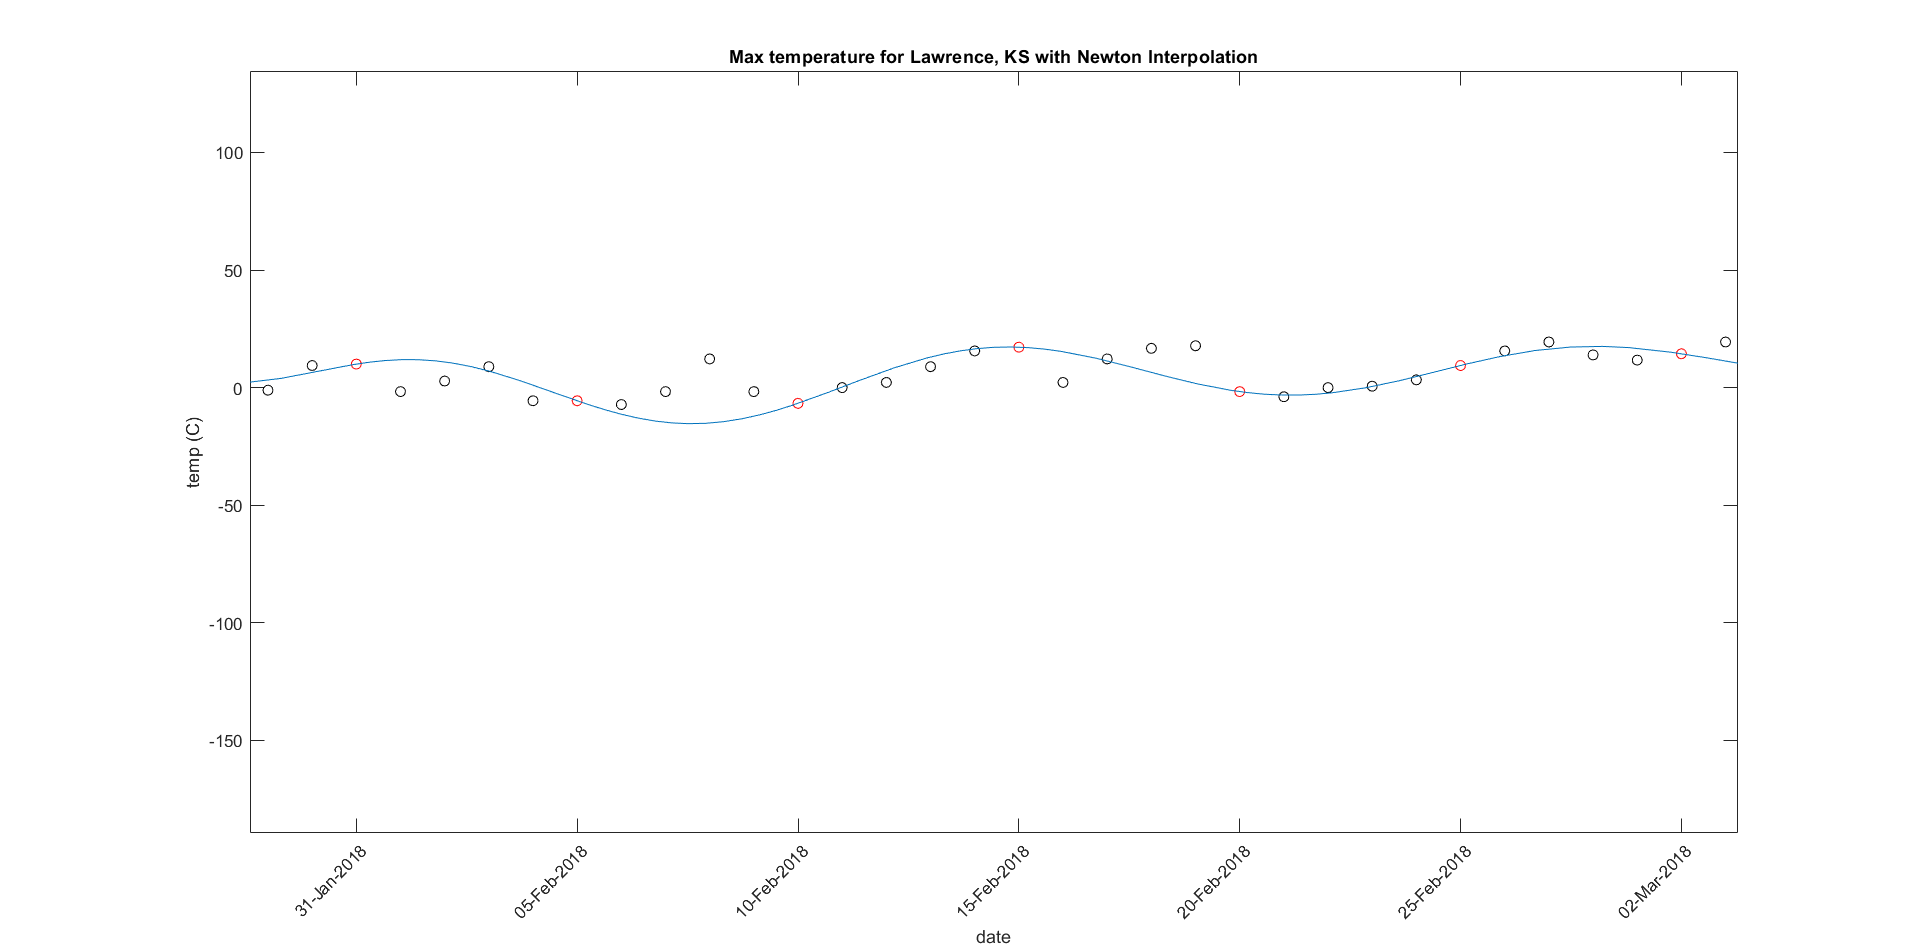
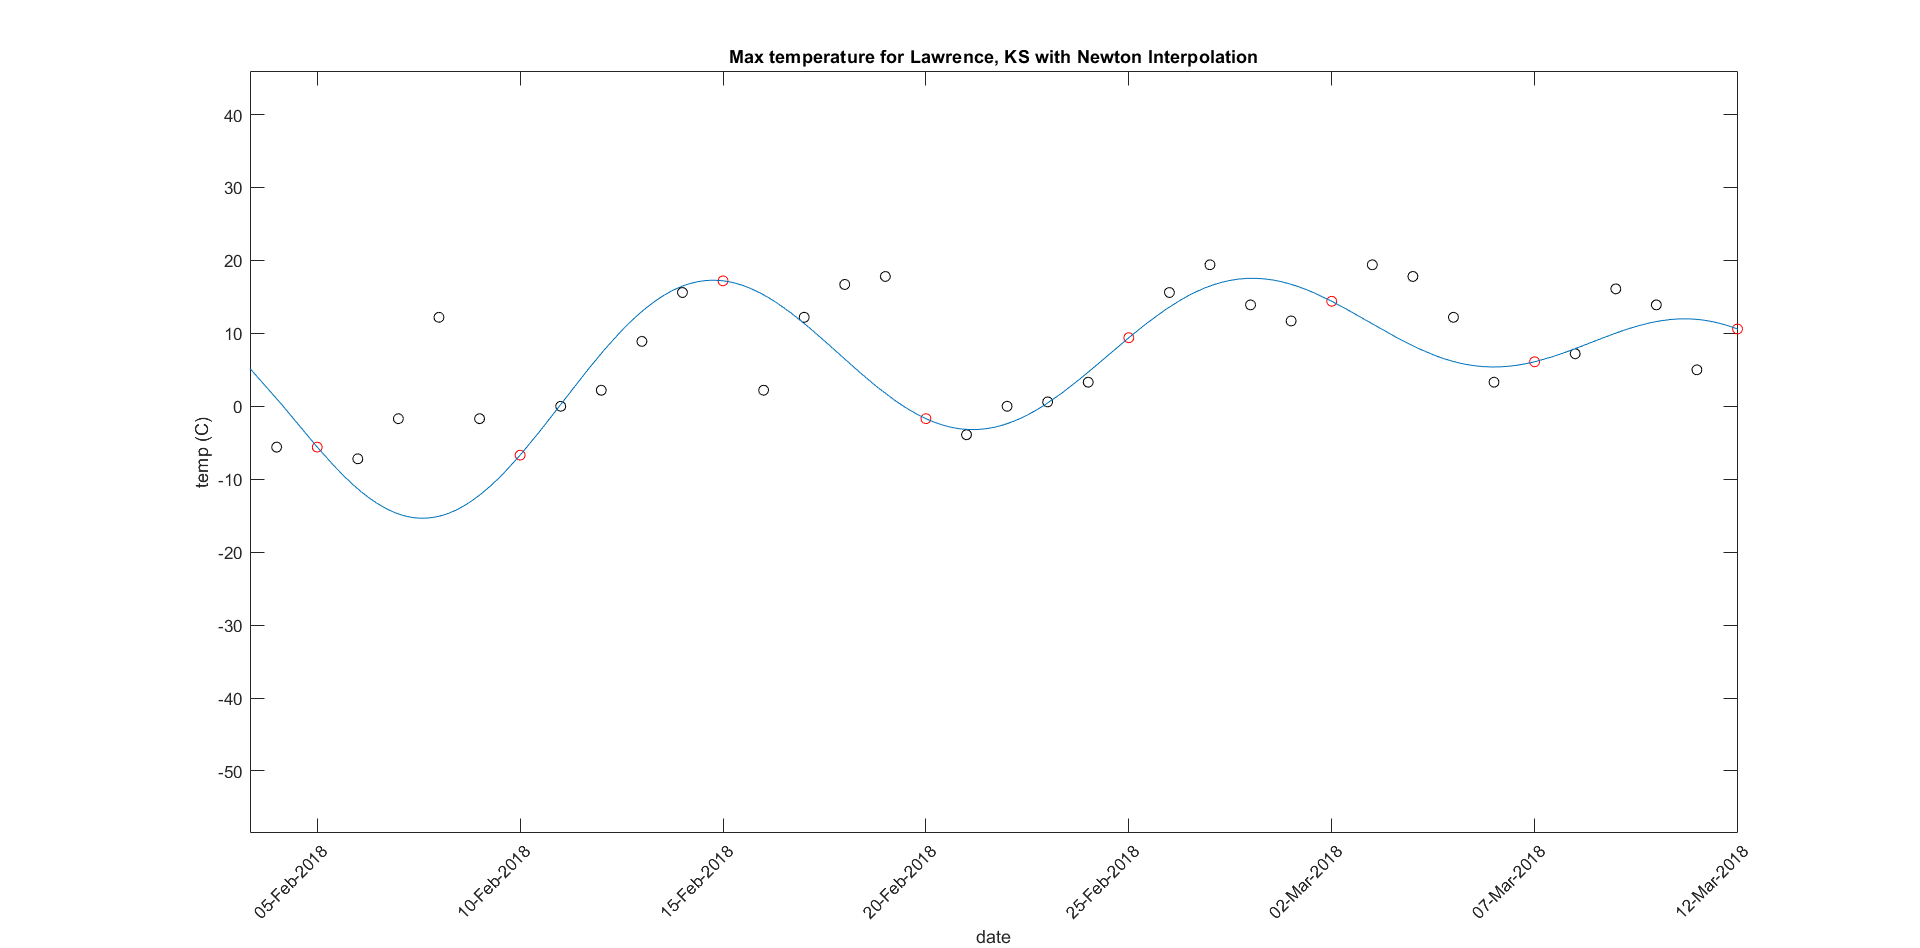
Updated divided differences with pairing function improvement to save 1 flop. Rerendered images

diff --git a/Newton_Interpolation_Coefficient.m b/Newton_Interpolation_Coefficient.m
@@ -10,7 +10,12 @@ function [fc, data] = Newton_Interpolation_Coefficient(x, indecies, data)
 % Calculate key value to check for precomputed values
 xk = indecies(1);
 yk = indecies(end);
-key = ( (xk + yk) * (xk + yk + 1) / 2 ) + yk;
+% Use inverse Cantor Pairing function: 
+% ( (xk + yk) * (xk + yk + 1) / 2 ) + yk
+% Improve flops with variables w and t
+w = xk + yk;
+t = w * (w + 1) / 2;
+key = t + yk;
 
 % Check if value is already calculated
 if isKey(data, key)
